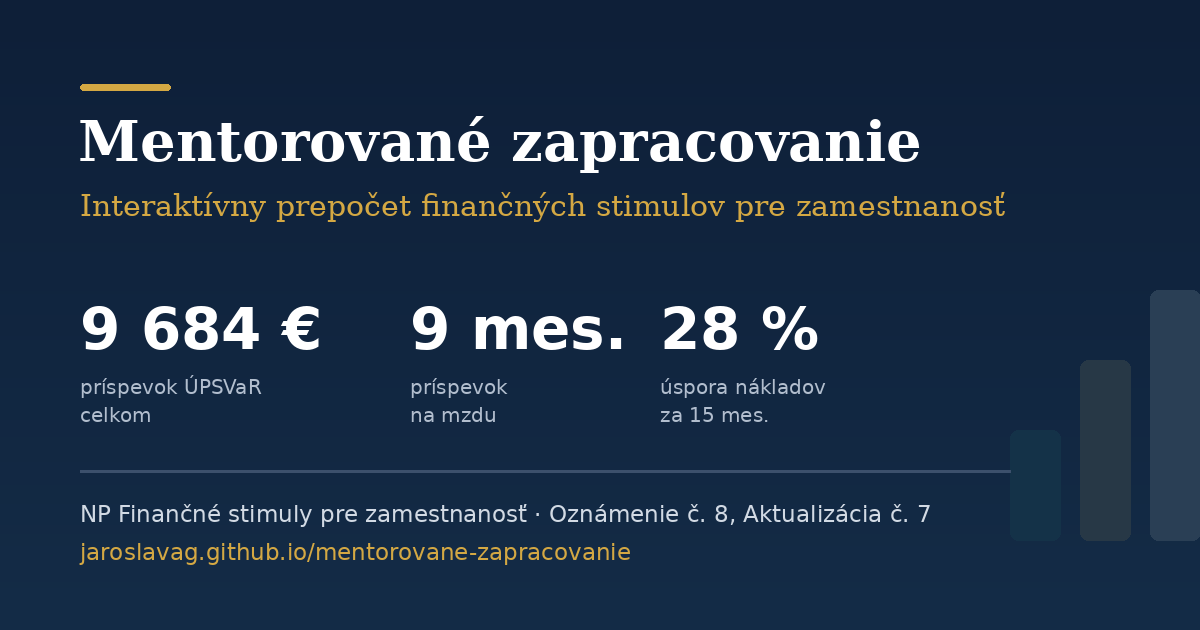
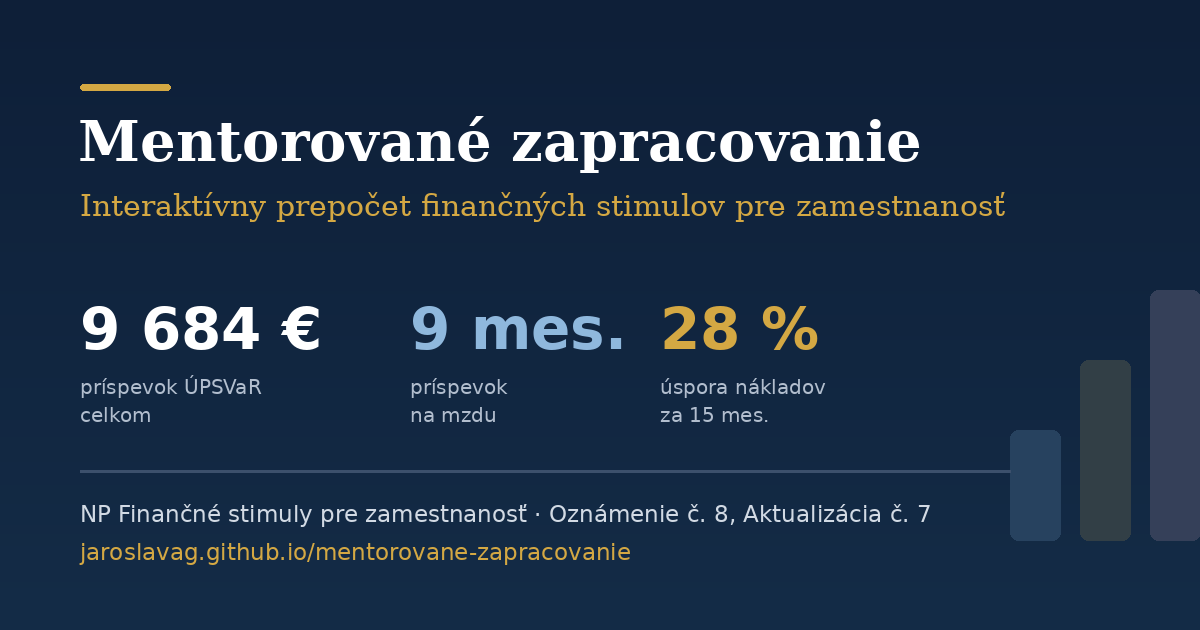
Add files via upload

Changed region(s): [[0.3392, 0.4825, 0.5242, 0.573], [0.555, 0.4825, 0.6783, 0.573]]

diff --git a/index.html b/index.html
@@ -30,8 +30,8 @@
 <meta name="twitter:description" content="Zadajte hrubú mzdu a zistite, koľko môže firma získať na mzdu a mentora pri prijatí znevýhodneného uchádzača (NP FSZ, Oznámenie č. 8/Aktualizácia č. 7).">
 <meta name="twitter:image" content="https://jaroslavag.github.io/mentorovane-zapracovanie/og-image.png">
 
[4 lines of base64/hex data omitted]
 <script src="https://cdnjs.cloudflare.com/ajax/libs/Chart.js/4.4.1/chart.umd.min.js"></script>
 <link href="https://fonts.googleapis.com/css2?family=Inter:wght@300;400;500;600;700&family=Sora:wght@600;700&display=swap" rel="stylesheet">
 <style>
@@ -39,14 +39,16 @@
 :root{
   --navy:#0E1F38;--navy-mid:#1A3352;--navy-light:#2B4A6F;
   --gold:#D4A843;--gold-light:#EBC96A;--gold-pale:#FDF3DC;
-  --teal:#1A6B5A;--teal-light:#E6F4F1;
-  --slate:#E8EDF5;--slate-mid:#C8D4E8;
+  --teal:#3D6FA8;--teal-light:#EAF2FA;
+  --rose:#D98DA0;--rose-light:#FBEEF1;
+  --slate:#F2ECE2;--slate-mid:#E3D9C9;
   --red:#C0392B;--red-light:#FDEAEA;
-  --text:#0E1F38;--text-mid:#3D5166;--text-muted:#7A8FA8;
-  --white:#FFFFFF;--border:#D8E2F0;
-  --radius:10px;--shadow:0 4px 24px rgba(14,31,56,0.10);
+  --text:#0E1F38;--text-mid:#4A4540;--text-muted:#847B6E;
+  --white:#FFFFFF;--border:#ECE4D8;--rule:#ECE4D8;
+  --sky-pale:#FAF6F0;--sky:#C9DDF2;--steel:#162C4A;--blue-accent:#3D6FA8;
+  --radius:10px;--shadow:0 4px 24px rgba(74,69,64,0.08);
 }
-body{font-family:'Inter',sans-serif;background:#F0F4FB;color:var(--text);min-height:100vh;}
+body{font-family:'Inter',sans-serif;background:#FAF6F0;color:var(--text);min-height:100vh;}
 
 /* ── TOP HEADER ── */
 .top-header{background:var(--navy);padding:0 32px;display:flex;align-items:center;justify-content:space-between;height:64px;flex-wrap:wrap;gap:8px;}
@@ -94,6 +96,7 @@ body{font-family:'Inter',sans-serif;background:#F0F4FB;color:var(--text);min-hei
 .hero-stats{display:flex;gap:20px;flex-wrap:wrap;}
 .hstat{background:rgba(255,255,255,0.08);border:1px solid rgba(255,255,255,0.12);border-radius:var(--radius);padding:14px 20px;text-align:center;min-width:110px;}
 .hstat-num{font-family:'Sora',sans-serif;font-size:24px;font-weight:700;color:var(--gold);}
+.hstat-num.rose{color:var(--rose);}
 .hstat-label{font-size:10px;color:rgba(255,255,255,0.55);margin-top:2px;line-height:1.3;}
 
 /* ── INTRO BAND (project description) ── */
@@ -112,7 +115,7 @@ body{font-family:'Inter',sans-serif;background:#F0F4FB;color:var(--text);min-hei
 .status-bar{background:var(--white);border-bottom:1px solid var(--border);padding:14px 32px;display:flex;align-items:center;gap:16px;flex-wrap:wrap;}
 .status-chip{display:flex;align-items:center;gap:6px;background:var(--gold-pale);border:1px solid #E8C96A;border-radius:20px;padding:5px 12px;font-size:11px;font-weight:600;color:#8A6500;}
 .status-chip::before{content:'✓';background:var(--gold);color:white;border-radius:50%;width:16px;height:16px;display:flex;align-items:center;justify-content:center;font-size:9px;font-weight:700;}
-.status-alert{display:flex;align-items:center;gap:6px;background:var(--teal-light);border:1px solid #A8D8CF;border-radius:20px;padding:5px 12px;font-size:11px;font-weight:600;color:var(--teal);}
+.status-alert{display:flex;align-items:center;gap:6px;background:var(--teal-light);border:1px solid #C9DDF2;border-radius:20px;padding:5px 12px;font-size:11px;font-weight:600;color:var(--teal);}
 .status-note{font-size:11px;color:var(--text-muted);margin-left:auto;}
 
 /* ── O AUTORKE ── */
@@ -134,6 +137,7 @@ body{font-family:'Inter',sans-serif;background:#F0F4FB;color:var(--text);min-hei
 }
 .ss-item{display:inline-flex; align-items:baseline; gap:6px;}
 .ss-val{font-weight:700; font-size:14px; color:var(--gold-light);}
+.ss-val.rose{color:var(--rose);}
 .ss-label{font-size:10.5px; font-weight:500; color:rgba(255,255,255,0.6); text-transform:uppercase; letter-spacing:0.3px;}
 .ss-sep{color:rgba(255,255,255,0.2); font-size:13px;}
 
@@ -161,11 +165,13 @@ body{font-family:'Inter',sans-serif;background:#F0F4FB;color:var(--text);min-hei
 /* ── METRIC BOX ── */
 .metric{background:var(--slate);border-radius:8px;padding:16px;text-align:center;}
 .metric.gold{background:var(--gold-pale);border:1px solid #E8C96A;}
-.metric.teal{background:var(--teal-light);border:1px solid #A8D8CF;}
+.metric.teal{background:var(--teal-light);border:1px solid #C9DDF2;}
+.metric.rose{background:var(--rose-light);border:1px solid #F0C4D1;}
 .metric.red{background:var(--red-light);border:1px solid #EAB0AB;}
 .metric-val{font-family:'Sora',sans-serif;font-size:22px;font-weight:700;color:var(--navy);}
 .metric.gold .metric-val{color:#8A6500;}
 .metric.teal .metric-val{color:var(--teal);}
+.metric.rose .metric-val{color:#A85A70;}
 .metric.red .metric-val{color:var(--red);}
 .metric-label{font-size:10.5px;color:var(--text-muted);margin-top:3px;line-height:1.35;}
 
@@ -203,7 +209,7 @@ body{font-family:'Inter',sans-serif;background:#F0F4FB;color:var(--text);min-hei
 /* ── RIGHTS/OBLIGATIONS ── */
 .ro-grid{display:grid;grid-template-columns:1fr 1fr;gap:20px;}
 .ro-card{border-radius:var(--radius);padding:20px;}
-.ro-card.rights{background:var(--teal-light);border:1px solid #A8D8CF;}
+.ro-card.rights{background:var(--teal-light);border:1px solid #C9DDF2;}
 .ro-card.oblig{background:#FEF0F0;border:1px solid #F0C4C4;}
 .ro-card-title{font-weight:700;font-size:13px;margin-bottom:12px;display:flex;align-items:center;gap:6px;}
 .ro-card.rights .ro-card-title{color:var(--teal);}
@@ -215,7 +221,7 @@ body{font-family:'Inter',sans-serif;background:#F0F4FB;color:var(--text);min-hei
 /* ── ELIGIBILITY ── */
 .eligibility-grid{display:grid;grid-template-columns:1fr 1fr;gap:20px;}
 .elig-block{border-radius:8px;padding:16px;}
-.elig-block.yes{background:var(--teal-light);border:1px solid #A8D8CF;}
+.elig-block.yes{background:var(--teal-light);border:1px solid #C9DDF2;}
 .elig-block.partial{background:var(--gold-pale);border:1px solid #E8C96A;}
 .elig-block.no{background:var(--red-light);border:1px solid #EAB0AB;}
 .elig-title{font-weight:700;font-size:12px;margin-bottom:8px;}
@@ -252,7 +258,7 @@ body{font-family:'Inter',sans-serif;background:#F0F4FB;color:var(--text);min-hei
 /* ── SWOT ── */
 .swot-grid{display:grid;grid-template-columns:1fr 1fr;grid-template-rows:1fr 1fr;gap:10px;}
 .swot-box{border-radius:8px;padding:12px 14px;}
-.swot-box.s{background:var(--teal-light);border:1px solid #A8D8CF;}
+.swot-box.s{background:var(--teal-light);border:1px solid #C9DDF2;}
 .swot-box.w{background:var(--red-light);border:1px solid #EAB0AB;}
 .swot-box.o{background:var(--gold-pale);border:1px solid #E8C96A;}
 .swot-box.t{background:var(--slate);border:1px solid var(--slate-mid);}
@@ -266,7 +272,7 @@ body{font-family:'Inter',sans-serif;background:#F0F4FB;color:var(--text);min-hei
 /* ── PROFILE COMPARE CARDS ── */
 .profile-compare{display:grid;grid-template-columns:1fr 1fr;gap:16px;}
 .profile-card{border-radius:var(--radius);padding:18px;}
-.profile-card.jara{background:var(--teal-light);border:1px solid #A8D8CF;}
+.profile-card.jara{background:var(--teal-light);border:1px solid #C9DDF2;}
 .profile-card.student{background:var(--gold-pale);border:1px solid #E8C96A;}
 .profile-name{font-family:'Sora',sans-serif;font-weight:700;font-size:14px;margin-bottom:4px;}
 .profile-card.jara .profile-name{color:var(--teal);}
@@ -369,7 +375,7 @@ body{font-family:'Inter',sans-serif;background:#F0F4FB;color:var(--text);min-hei
       <div class="hstat-label">Úspora nákladov<br>za <span id="hero-horizon">15</span> mesiacov</div>
     </div>
     <div class="hstat">
-      <div class="hstat-num" id="hero-mentor">2 mes. +</div>
+      <div class="hstat-num rose" id="hero-mentor">2 mes. +</div>
       <div class="hstat-label">Príspevok<br>na mentora (≤322,79€)</div>
     </div>
   </div>
@@ -383,7 +389,7 @@ body{font-family:'Inter',sans-serif;background:#F0F4FB;color:var(--text);min-hei
   <span class="ss-sep ss-extra">·</span>
   <span class="ss-item"><span class="ss-val" id="ss-savings">28 %</span><span class="ss-label">úspora</span></span>
   <span class="ss-sep ss-extra">·</span>
-  <span class="ss-item ss-extra"><span class="ss-val" id="ss-mentor">2 mes.+</span><span class="ss-label">mentor</span></span>
+  <span class="ss-item ss-extra"><span class="ss-val rose" id="ss-mentor">2 mes.+</span><span class="ss-label">mentor</span></span>
 </div>
 
 <!-- INTRO / O PROJEKTE -->
@@ -547,7 +553,7 @@ body{font-family:'Inter',sans-serif;background:#F0F4FB;color:var(--text);min-hei
   <div class="panel" id="panel-finance">
 
     <!-- DISCLAIMER: officially verified from Oznámenie č.8, Aktualizácia č.7 -->
-    <div class="card" style="margin-bottom:16px;background:var(--teal-light);border-color:#A8D8CF;">
+    <div class="card" style="margin-bottom:16px;background:var(--teal-light);border-color:#C9DDF2;">
       <div style="font-weight:700;font-size:12.5px;color:var(--teal);margin-bottom:6px;">✅ Overené z oficiálneho dokumentu: Oznámenie č. 8/2026/§54, Aktualizácia č. 7 (účinnosť od 1.5.2026)</div>
       <div style="font-size:11px;color:var(--text-mid);line-height:1.7;">
         Pre kategóriu <strong>DNO</strong> (dlhodobo nezamestnaný občan – evidencia ≥ 12 po sebe nasledujúcich mesiacov, žiadna horná hranica) sú v oficiálnom Oznámení stanovené tieto parametre:
@@ -624,7 +630,7 @@ body{font-family:'Inter',sans-serif;background:#F0F4FB;color:var(--text);min-hei
 
       <div style="display:flex;gap:8px;flex-wrap:wrap;margin-top:14px;">
         <button onclick="document.getElementById('bruttoInput').value=1700; document.getElementById('pctInput').value=80; document.getElementById('capInput').value=1075.98; document.getElementById('durInput').value=9; document.getElementById('retInput').value=6; document.getElementById('mentorInput').value=2; recalcTPP();"
-          style="font-size:10.5px;font-weight:600;color:var(--teal);background:var(--teal-light);border:1px solid #A8D8CF;border-radius:6px;padding:8px 12px;cursor:pointer;">✅ Oznámenie č.8, Aktualizácia č.7 (DNO): 80% / strop 1 075,98€ / 9+6 mes. / mentor 2 mes.+alikvot</button>
+          style="font-size:10.5px;font-weight:600;color:var(--teal);background:var(--teal-light);border:1px solid #C9DDF2;border-radius:6px;padding:8px 12px;cursor:pointer;">✅ Oznámenie č.8, Aktualizácia č.7 (DNO): 80% / strop 1 075,98€ / 9+6 mes. / mentor 2 mes.+alikvot</button>
         <button onclick="document.getElementById('bruttoInput').value=1700; document.getElementById('pctInput').value=80; document.getElementById('capInput').value=0; document.getElementById('durInput').value=12; document.getElementById('retInput').value=6; document.getElementById('mentorInput').value=4; recalcTPP();"
           style="font-size:10.5px;font-weight:500;color:var(--blue-accent);background:var(--white);border:1px solid var(--rule);border-radius:6px;padding:8px 12px;cursor:pointer;">📌 Staršia verzia (2024): 80% / bez stropu / 12+6 mes. / mentor 4 mes.</button>
       </div>
@@ -647,7 +653,7 @@ body{font-family:'Inter',sans-serif;background:#F0F4FB;color:var(--text);min-hei
         <div class="metric-val" id="m-contribution-total">9 684 €</div>
         <div class="metric-label">Príspevok na mzdu celkom<br>(<span id="m-contribution-total-months">9</span> mes. × <span id="m-contribution-total-pct">46,47 (efekt.)</span> % CCP)</div>
       </div>
-      <div class="metric teal">
+      <div class="metric rose">
         <div class="metric-val" id="m-mentor-total">~646 €</div>
         <div class="metric-label">Príspevok na mentora<br>(<span id="m-mentor-months">2</span> plné mes. × min(15% CCP, 322,79€) + alikvot. 1. mesiac)</div>
       </div>
@@ -805,7 +811,7 @@ body{font-family:'Inter',sans-serif;background:#F0F4FB;color:var(--text);min-hei
   <!-- TAB 4: PART-TIME COMPARISON (NEW) -->
   <div class="panel" id="panel-parttime">
 
-    <div class="card" style="margin-bottom:16px;background:var(--teal-light);border-color:#A8D8CF;">
+    <div class="card" style="margin-bottom:16px;background:var(--teal-light);border-color:#C9DDF2;">
       <div style="font-weight:700;font-size:12px;color:var(--teal);margin-bottom:4px;">✅ Prepočítané podľa Oznámenia č. 8, Aktualizácie č. 7 (a odvodov 36,2 %)</div>
       <div style="font-size:11px;color:var(--text-mid);line-height:1.6;">
         Pre polovičný úväzok (0,5 FTE) platí <strong>strop 537,99 €/mes.</strong> (presne polovica z 1 075,98 €) a doba príspevku <strong>9 mesiacov</strong> + <strong>6 mesiacov udržanie PM</strong> (horizont 15 mes.). Pri brutto 850 € je CCP ≈ 1 158 € a 80 % ≈ 926 € – presahuje strop 537,99 €, takže reálny príspevok = <strong>537,99 €/mes. po 9 mesiacov</strong>. Tieto kratšie a nižšie parametre výrazne menia dlhodobé porovnanie so študentom – pozri prepočítané grafy a tabuľku nižšie.
@@ -1616,7 +1622,7 @@ function buildChartMonthly() {
       labels: months,
       datasets: [
         { label: 'Príspevok ÚPSVaR (€)', data: contribution,
-          backgroundColor: 'rgba(26,107,90,0.75)', borderRadius: 4 },
+          backgroundColor: 'rgba(61,111,168,0.75)', borderRadius: 4 },
         { label: 'Náklad firmy (€)', data: firmCost,
           backgroundColor: 'rgba(14,31,56,0.85)', borderRadius: 4 }
       ]
@@ -1645,7 +1651,7 @@ function buildChartCompare() {
       datasets: [
         { label: 'Príspevok ÚPSVaR (€)',
           data: [Math.round(r.contribTotal), Math.round(r.contrib3mo), Math.round(r.contrib3mo), 0],
-          backgroundColor: 'rgba(26,107,90,0.8)', borderRadius: 5 },
+          backgroundColor: 'rgba(61,111,168,0.8)', borderRadius: 5 },
         { label: 'Náklad firmy (€)',
           data: [Math.round(r.totalHorizon), Math.round(r.totalZUoZ18), Math.round(r.totalZUoZ18), Math.round(r.withoutSubsidyHorizon)],
           backgroundColor: 'rgba(14,31,56,0.8)', borderRadius: 5 }
@@ -1715,7 +1721,7 @@ function buildChartsCross() {
       labels: months,
       datasets: [
         { label: 'Jaroslava – mes. náklad (€)', data: monthlyJ,
-          borderColor: 'rgba(26,107,90,1)', backgroundColor: 'rgba(26,107,90,0.08)',
+          borderColor: 'rgba(61,111,168,1)', backgroundColor: 'rgba(61,111,168,0.08)',
           borderWidth: 2.5, pointRadius: 0, stepped: true, fill: false },
         { label: 'Študent – mes. náklad (€)', data: monthlyS,
           borderColor: 'rgba(212,168,67,1)', backgroundColor: 'rgba(212,168,67,0.08)',
@@ -1745,7 +1751,7 @@ function buildChartsCross() {
       labels: months,
       datasets: [
         { label: 'Jaroslava – kumulatívne (€)', data: cumJ,
-          borderColor: 'rgba(26,107,90,1)', backgroundColor: 'rgba(26,107,90,0.10)',
+          borderColor: 'rgba(61,111,168,1)', backgroundColor: 'rgba(61,111,168,0.10)',
           borderWidth: 2.5, pointRadius: 0, fill: true, tension: 0.15 },
         { label: 'Študent – kumulatívne (€)', data: cumS,
           borderColor: 'rgba(212,168,67,1)', backgroundColor: 'rgba(212,168,67,0.10)',